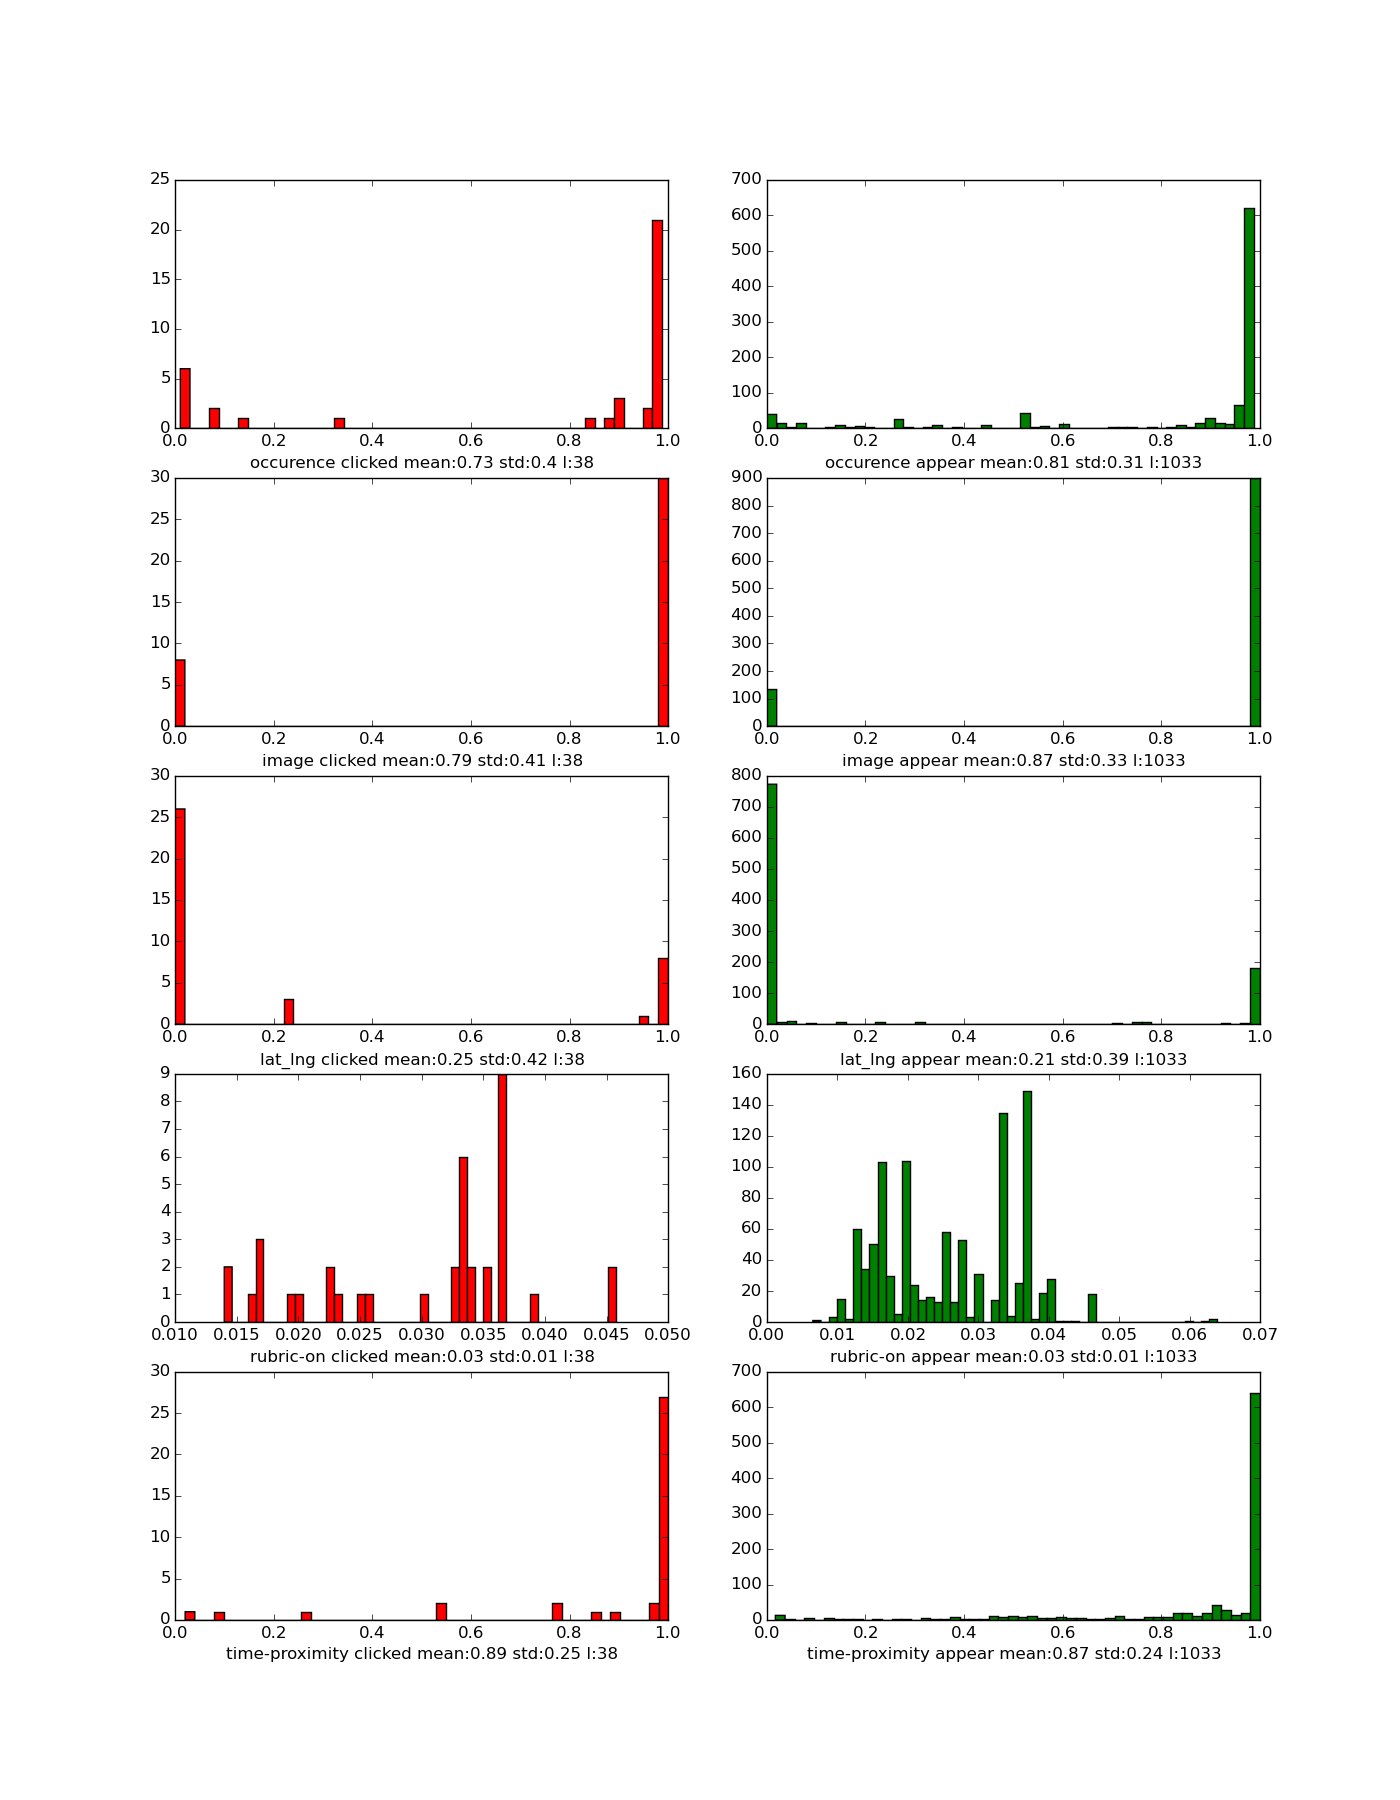
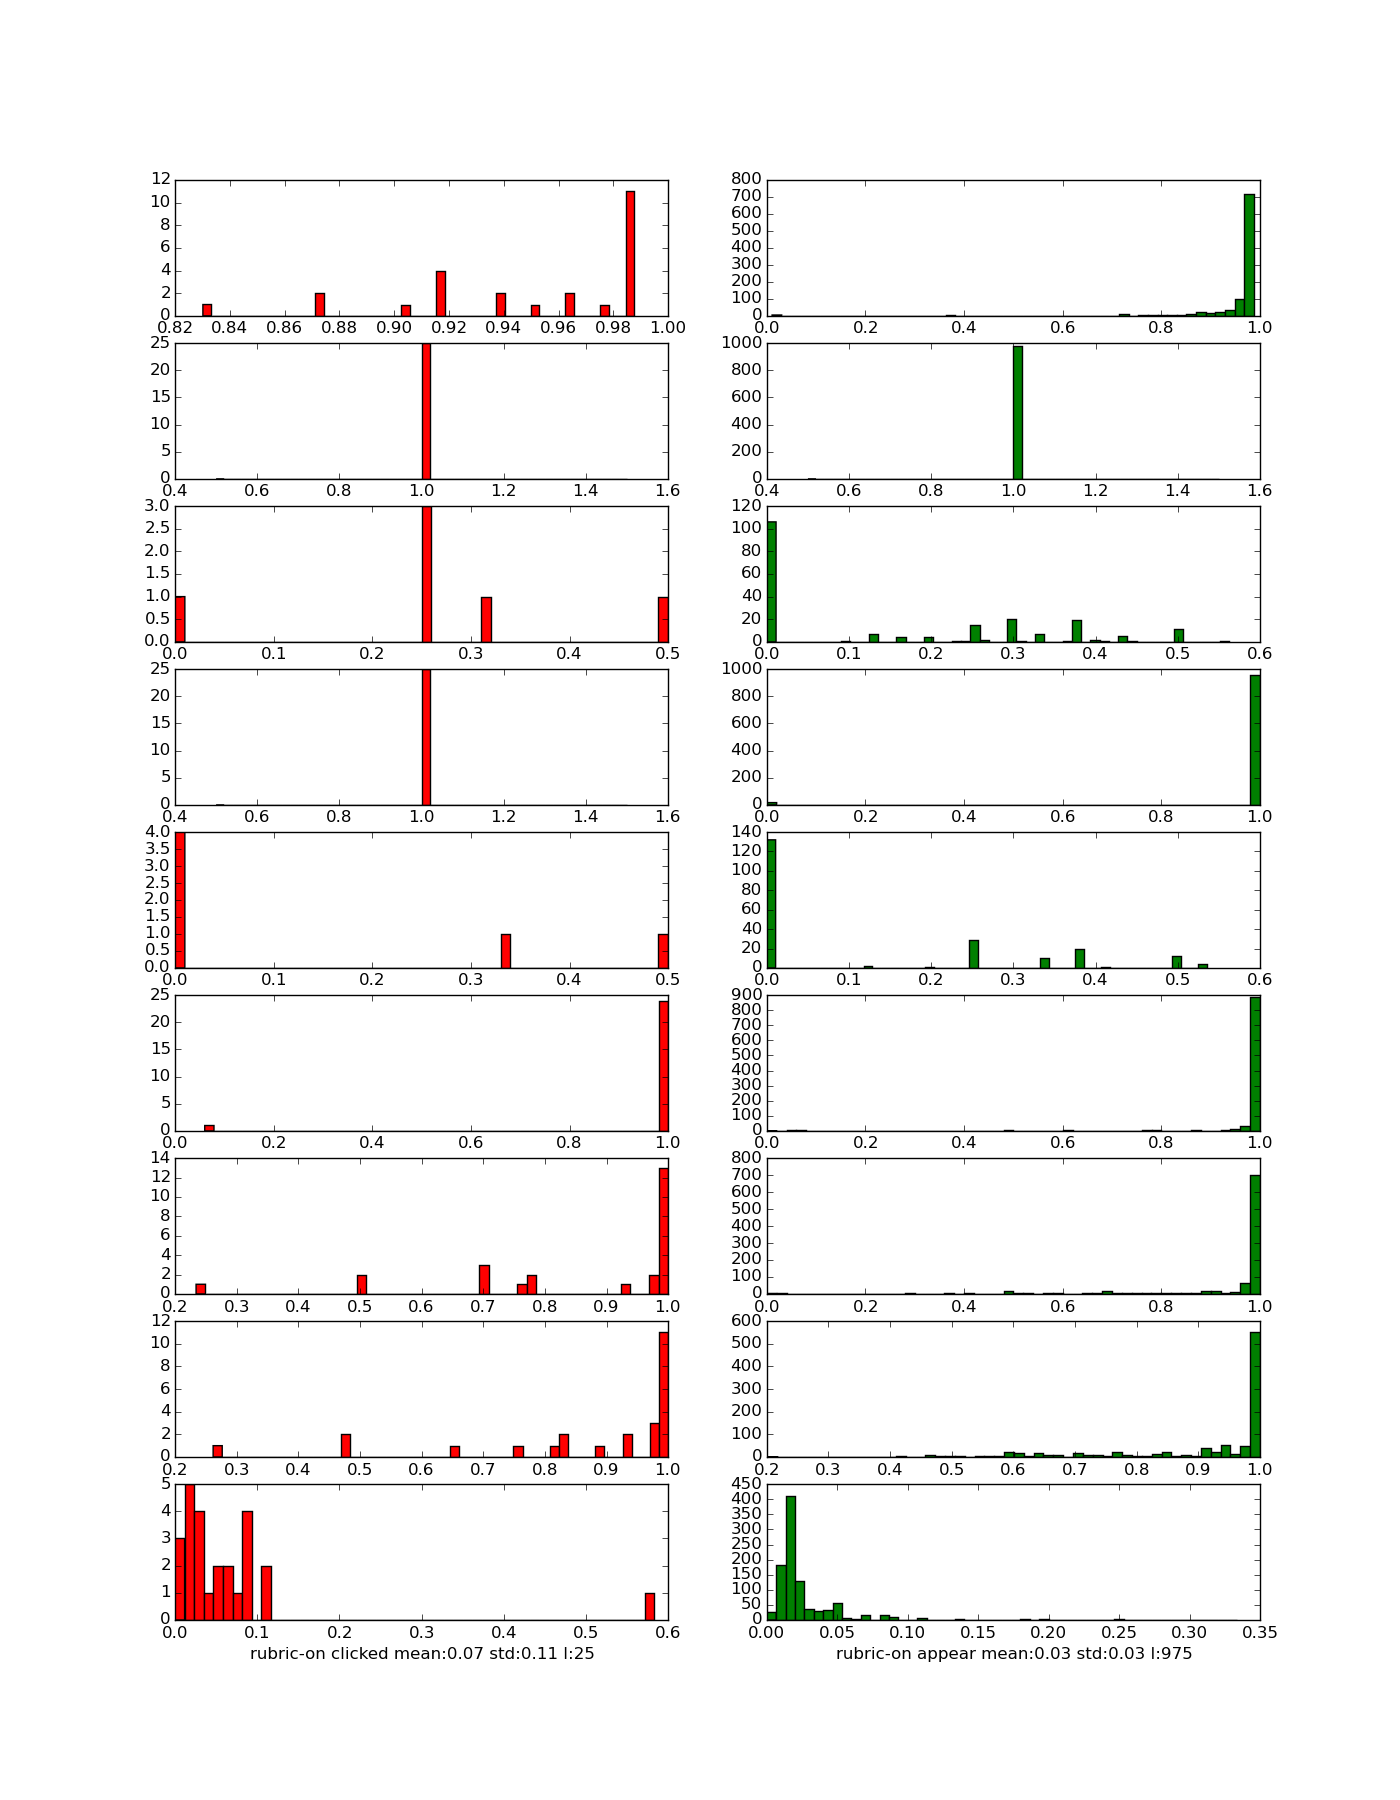
okok

diff --git a/reco/scriptpython/extract_func.py b/reco/scriptpython/extract_func.py
@@ -32,34 +32,34 @@ def extract_score(res,**params):
 
 
 def extract_score_multipass(res,**params):
-    score={'clicked':{param:[] for param in params},'appear':{param:[] for param in params}}
+    score={'clicked':{},'appear':{}}
+
     
         
     for r in res['hits']['hits']:
         
         message=r['_source']['message']
         r=r['_source']['ctxt_function_explanation']
-        
-        for param in params:
-            try:
-                score[message][param].append(filter(lambda x:x['field_or_function']==param,r)[0]['score'])
-            except Exception as e:
-                print '============>',e
-                print r
-                print param
-                #raw_input()
-    height=len(score['clicked'])
-    pylab.figure(figsize=(14,18))
+       
+        for bucket in r:
+                key=bucket['field_or_function']
+                if not score[message].has_key(key):score[message][key]=[]
+                score[message][key].append(bucket['score'])
+                
+                
+    height=max([len(score['clicked']),len(score['appear'])])
+    pylab.figure(figsize=(14,30))
     i=1
-    for field in params:
-        if score['clicked'][field]:
+    for field in set(score['clicked'].keys()+score['appear'].keys()):
+        if score['clicked'].has_key(field):
+           
             pylab.subplot(height,2,i)
             i+=1
             pylab.hist(score['clicked'][field],50,color='r')
             meanclick=sp.mean(score['clicked'][field])
             stdclick=sp.std(score['clicked'][field])
             pylab.xlabel('{0} clicked mean:{1} std:{2} l:{3}'.format(field,round(meanclick,2),round(stdclick,2),len(score['clicked'][field])))
-        if score['appear'][field]:
+        if score['appear'].has_key(field):
             pylab.subplot(height,2,i)
             i+=1
             meanappear=sp.mean(score['appear'][field])
@@ -67,10 +67,10 @@ def extract_score_multipass(res,**params):
             pylab.hist(score['appear'][field],50,color='g')
             pylab.xlabel('{0} appear mean:{1} std:{2} l:{3}'.format(field,round(meanappear,2),round(stdappear,2),len(score['appear'][field])))
         print field
-        print round(meanclick,2),round(meanappear,2)
-        print round(stdclick,2),round(stdappear,2)
+        print round(meanclick,4),round(meanappear,4)
+        print round(stdclick,4),round(stdappear,4)
         print 'longeur: ',len(score['clicked'][field]),len(score['appear'][field])
-    pylab.savefig('../img/distrib_all_bled.png')
+    pylab.savefig('../img/distrib_all_city.png')
     
     return score
 

diff --git a/reco/scriptpython/make_vector_coefs.py b/reco/scriptpython/make_vector_coefs.py
@@ -16,6 +16,8 @@ import cPickle
 import sys
 import request
 import extract_func
+import json
+import unidecode
 
 
 ###################### Databases  #######################
@@ -25,22 +27,44 @@ es=Elasticsearch(['http://chewbacca.mapado.com:9200/'])
 
 
 ###################### Parameter  #######################
-size=1000
+size=10000
 #########################################################
 
 
 def main():
-        res=es.index(index='reco_models',doc_type="models",body={"python_test":"success",'idd':4})
-        print res
-        return
+        with open('../data/city_v1.json','r') as f:
+            jsonstring=unidecode.unidecode(f.read().strip().strip('\n').lower().decode('utf-8'))
+        city=json.loads(jsonstring)
+        querydic ={ 
+            'factor' :{
+                'lat_lng':  3,
+                'time-proximity' : 4,
+                'rubric-on' : 1.0,
+                'tags-on.label' : 0.5,
+                'tags-on.categorie' : 1.0
+            },
+            'normfactor' : {
+                'lat_lng':  {'mean' : 0.0, 'std' : 1},
+                'time-proximity' : {'mean' : 0, 'std' : 1},
+                'rubric-on' : {'mean' : 0.0, 'std' : 0.2},
+                'tags-on.label' : {'mean' : 0.0, 'std' : 0.2},
+                'tags-on.categorie' : {'mean' : 0.0, 'std' : 0.2}
+            },
+            'city' : city,
+            'version' : 1,
+            'name' : 'all big city'
+        }
+        #return
         req=request.request_aggregation_CITY
         res=es.search(index='user_log',body=req,size=size)
         RubricVector=process_agg_res_ratio(res,'rubric')
         SemCatVector=process_agg_res_ratio(res,'categorie',100)
         SemLabelVector=process_agg_res_ratio(res,'label',100)
         
-        
-        print SemLabelVector
+        #print RubricVector
+        querydic['vector']={'rubric':RubricVector}
+        es.index(index='reco_models',doc_type='models',body=querydic)
+        #print SemCatVector
 
         
 def process_agg_res_ratio(res,field='rubric',threshold=None):

diff --git a/reco/scriptpython/main_reco.py b/reco/scriptpython/main_reco.py
@@ -32,21 +32,21 @@ es=Elasticsearch(['http://chewbacca.mapado.com:9200/'])
 pathdata='/home/oliver/Documents/reco/data/'
 
 ###################### Parameter  #######################
-size=1000
+size=10000
 #########################################################
 
 pathdata='home/oliver/Documents/clustering/data/'
 mongodicname='all_act_v2'
 
-params={'occurence':None,'image':None,'rubric-on':None,'lat_lng':None,'time-proximity':None}
+params={}
 
 def main():
-    cl=take_data_BASE(size,fname='bleddata')
-    cl.change_request(request.request5,field='_source')
-    cl.process()
-    cl.save()
+    #cl=take_data_BASE(size,fname='bleddata')
+    #cl.change_request(request.request5,field='_source')
+    #cl.process()
+    #cl.save()
     
-    #load_query_click_data_raw(size,index='user_log',request=request.request5,func=extract_func.extract_score_multipass,params=params)
+    load_query_click_data_raw(size,index='user_log',request=request.request4,func=extract_func.extract_score_multipass,params=params)
     #cl=take_data_BASE(daylist=['vendredi','samedi'],nbday=200)
     #cl.alter_request()
     #cl.alter_request_onlyclick()

diff --git a/reco/scriptpython/request.py b/reco/scriptpython/request.py
@@ -186,11 +186,6 @@ request4={
                     }
                   },
                   {
-                    "term": {
-                      "ctxt_function_explanation.field_or_function": "lat_lng"
-                    }
-                  },
-                  {
                      "terms": {
                       "ctxt_search.addressTree": ["paris","lyon","marseille","toulouse","bordeaux","nantes","grenoble","strasbourg"]
                     } 
